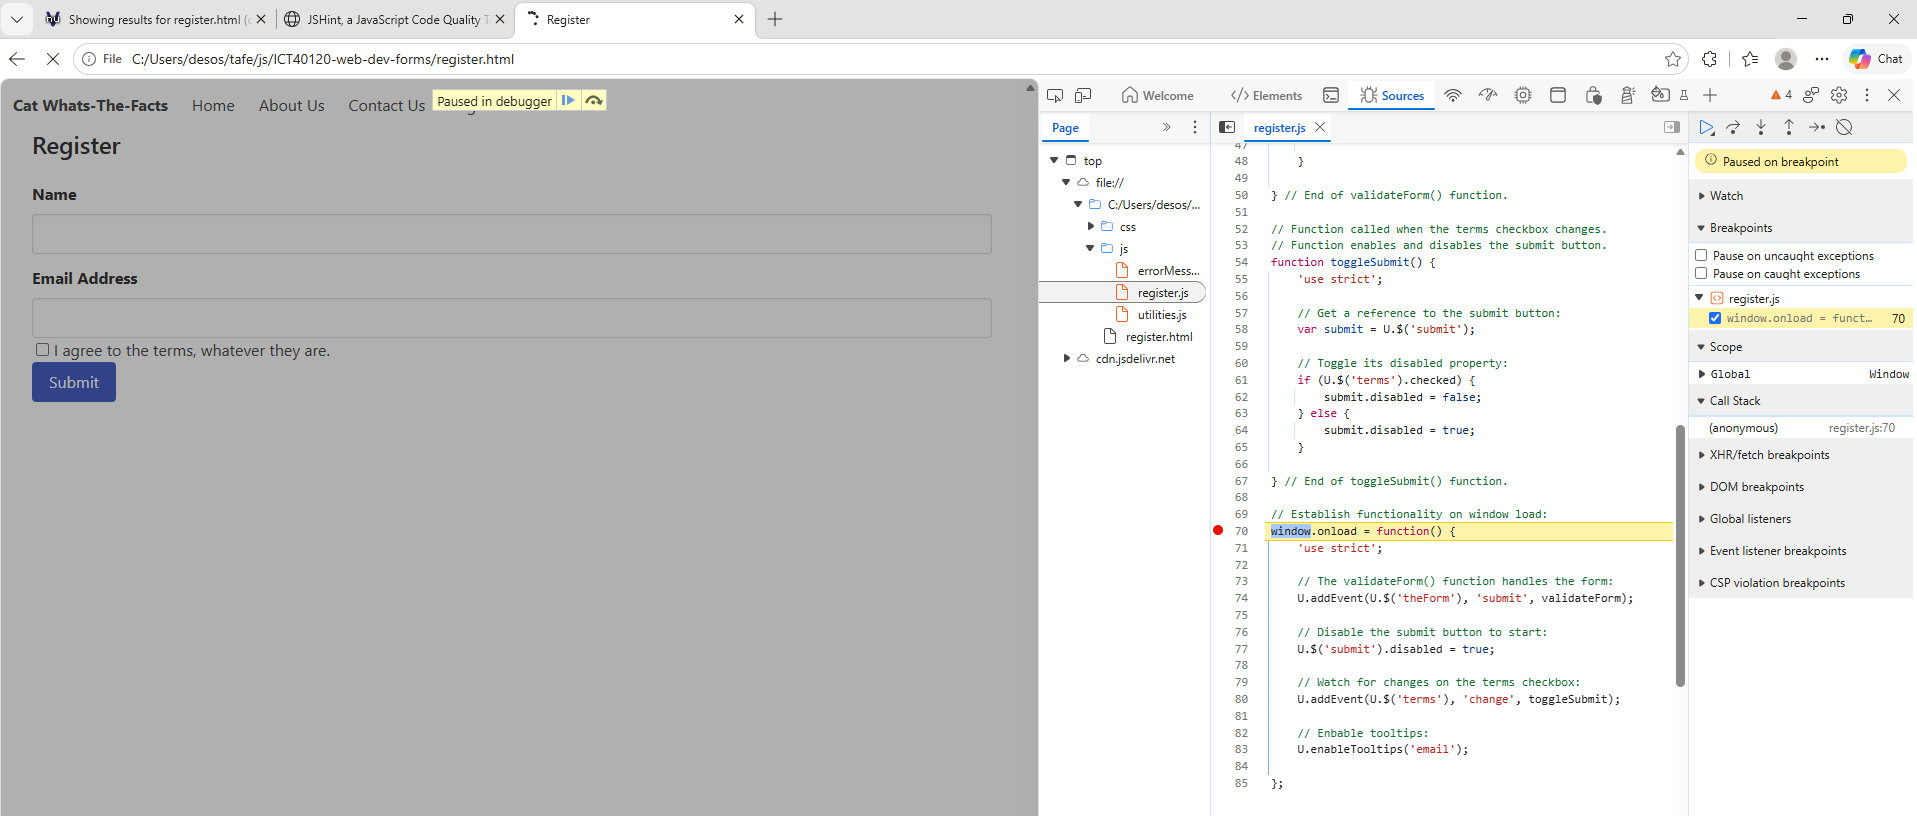
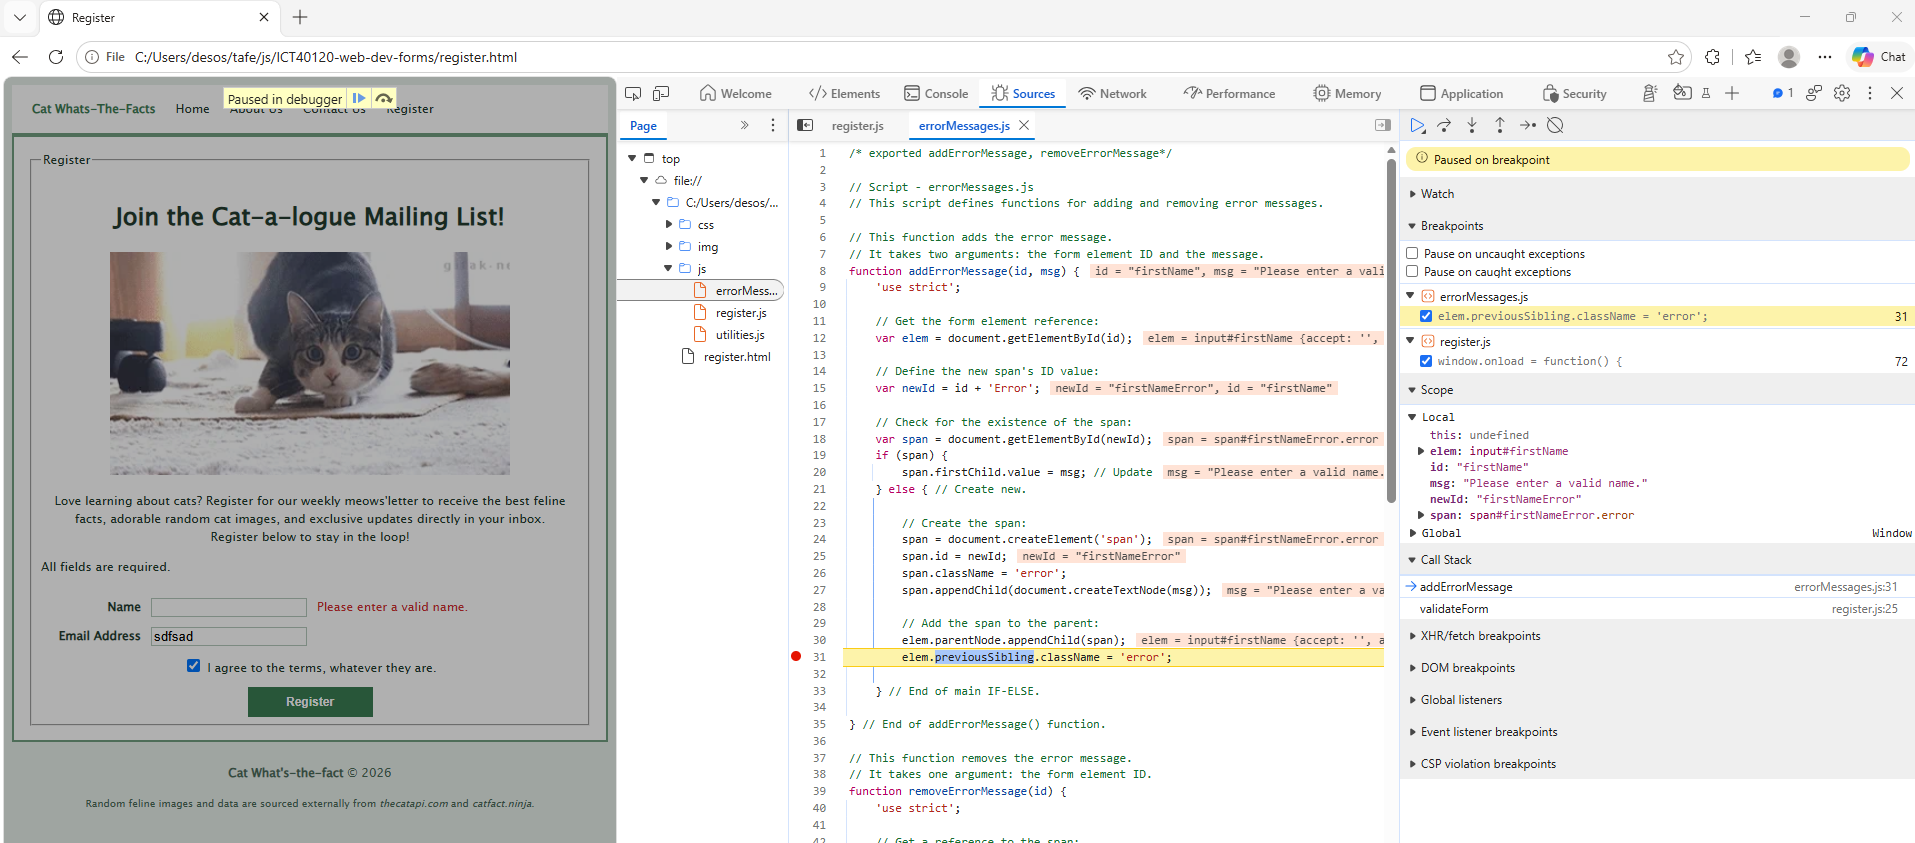
minor bud fix and new testing image

diff --git a/about-us.html b/about-us.html
@@ -21,7 +21,7 @@
 		</header>
         <div style="background-color: #FFFFFF; padding: 15px 20px;">
             <div style="text-align: center; color: #233B2E;">
-				<h2><strong>About Us</strong></h2>
+				<h1><strong>About Us</strong></h1>
                 <figure>
                     <img id="catImage" src="img/cat1.webp" alt="Cat image"  style="width: 100%; max-width: 400px; margin:auto;">
                 </figure>

diff --git a/index.html b/index.html
@@ -22,7 +22,7 @@
         
         <div style="background-color: #FFFFFF; padding: 15px 20px;">
             <div style="text-align: center; color: #233B2E;">
-				<h2><strong>Cat What's-the-fact</strong></h2>
+				<h1><strong>Cat What's-the-fact</strong></h1>
                 <div class="one">
                     <input type="submit" value="New Fact" id="newCatData" class="button is-link">
                 </div>

diff --git a/register.html b/register.html
@@ -25,7 +25,7 @@
 			
 			<fieldset><legend>Register</legend>
 			<div style="text-align: center; color: #233B2E;">
-				<h2><strong>Join the Cat-a-logue Mailing List!</strong></h2>
+				<h1><strong>Join the Cat-a-logue Mailing List!</strong></h1>
 				<figure>
 					<img id="catImage" src="img/cat2.webp" alt="Cat image"  style="width: 100%; max-width: 400px; margin:auto;">
 				</figure>

diff --git a/contact-us.html b/contact-us.html
@@ -25,7 +25,7 @@
 				<!-- <p>All fields are required.</p> -->
 				 
 				<div style="text-align: center; color: #233B2E;">
-					<h2><strong>Get in Touch</strong></h2>
+					<h1><strong>Get in Touch</strong></h1>
 					<figure>
 						<img id="catImage" src="img/cat3.webp" alt="Cat image"  style="width: 100%; max-width: 400px; margin:auto;">
 					</figure>
